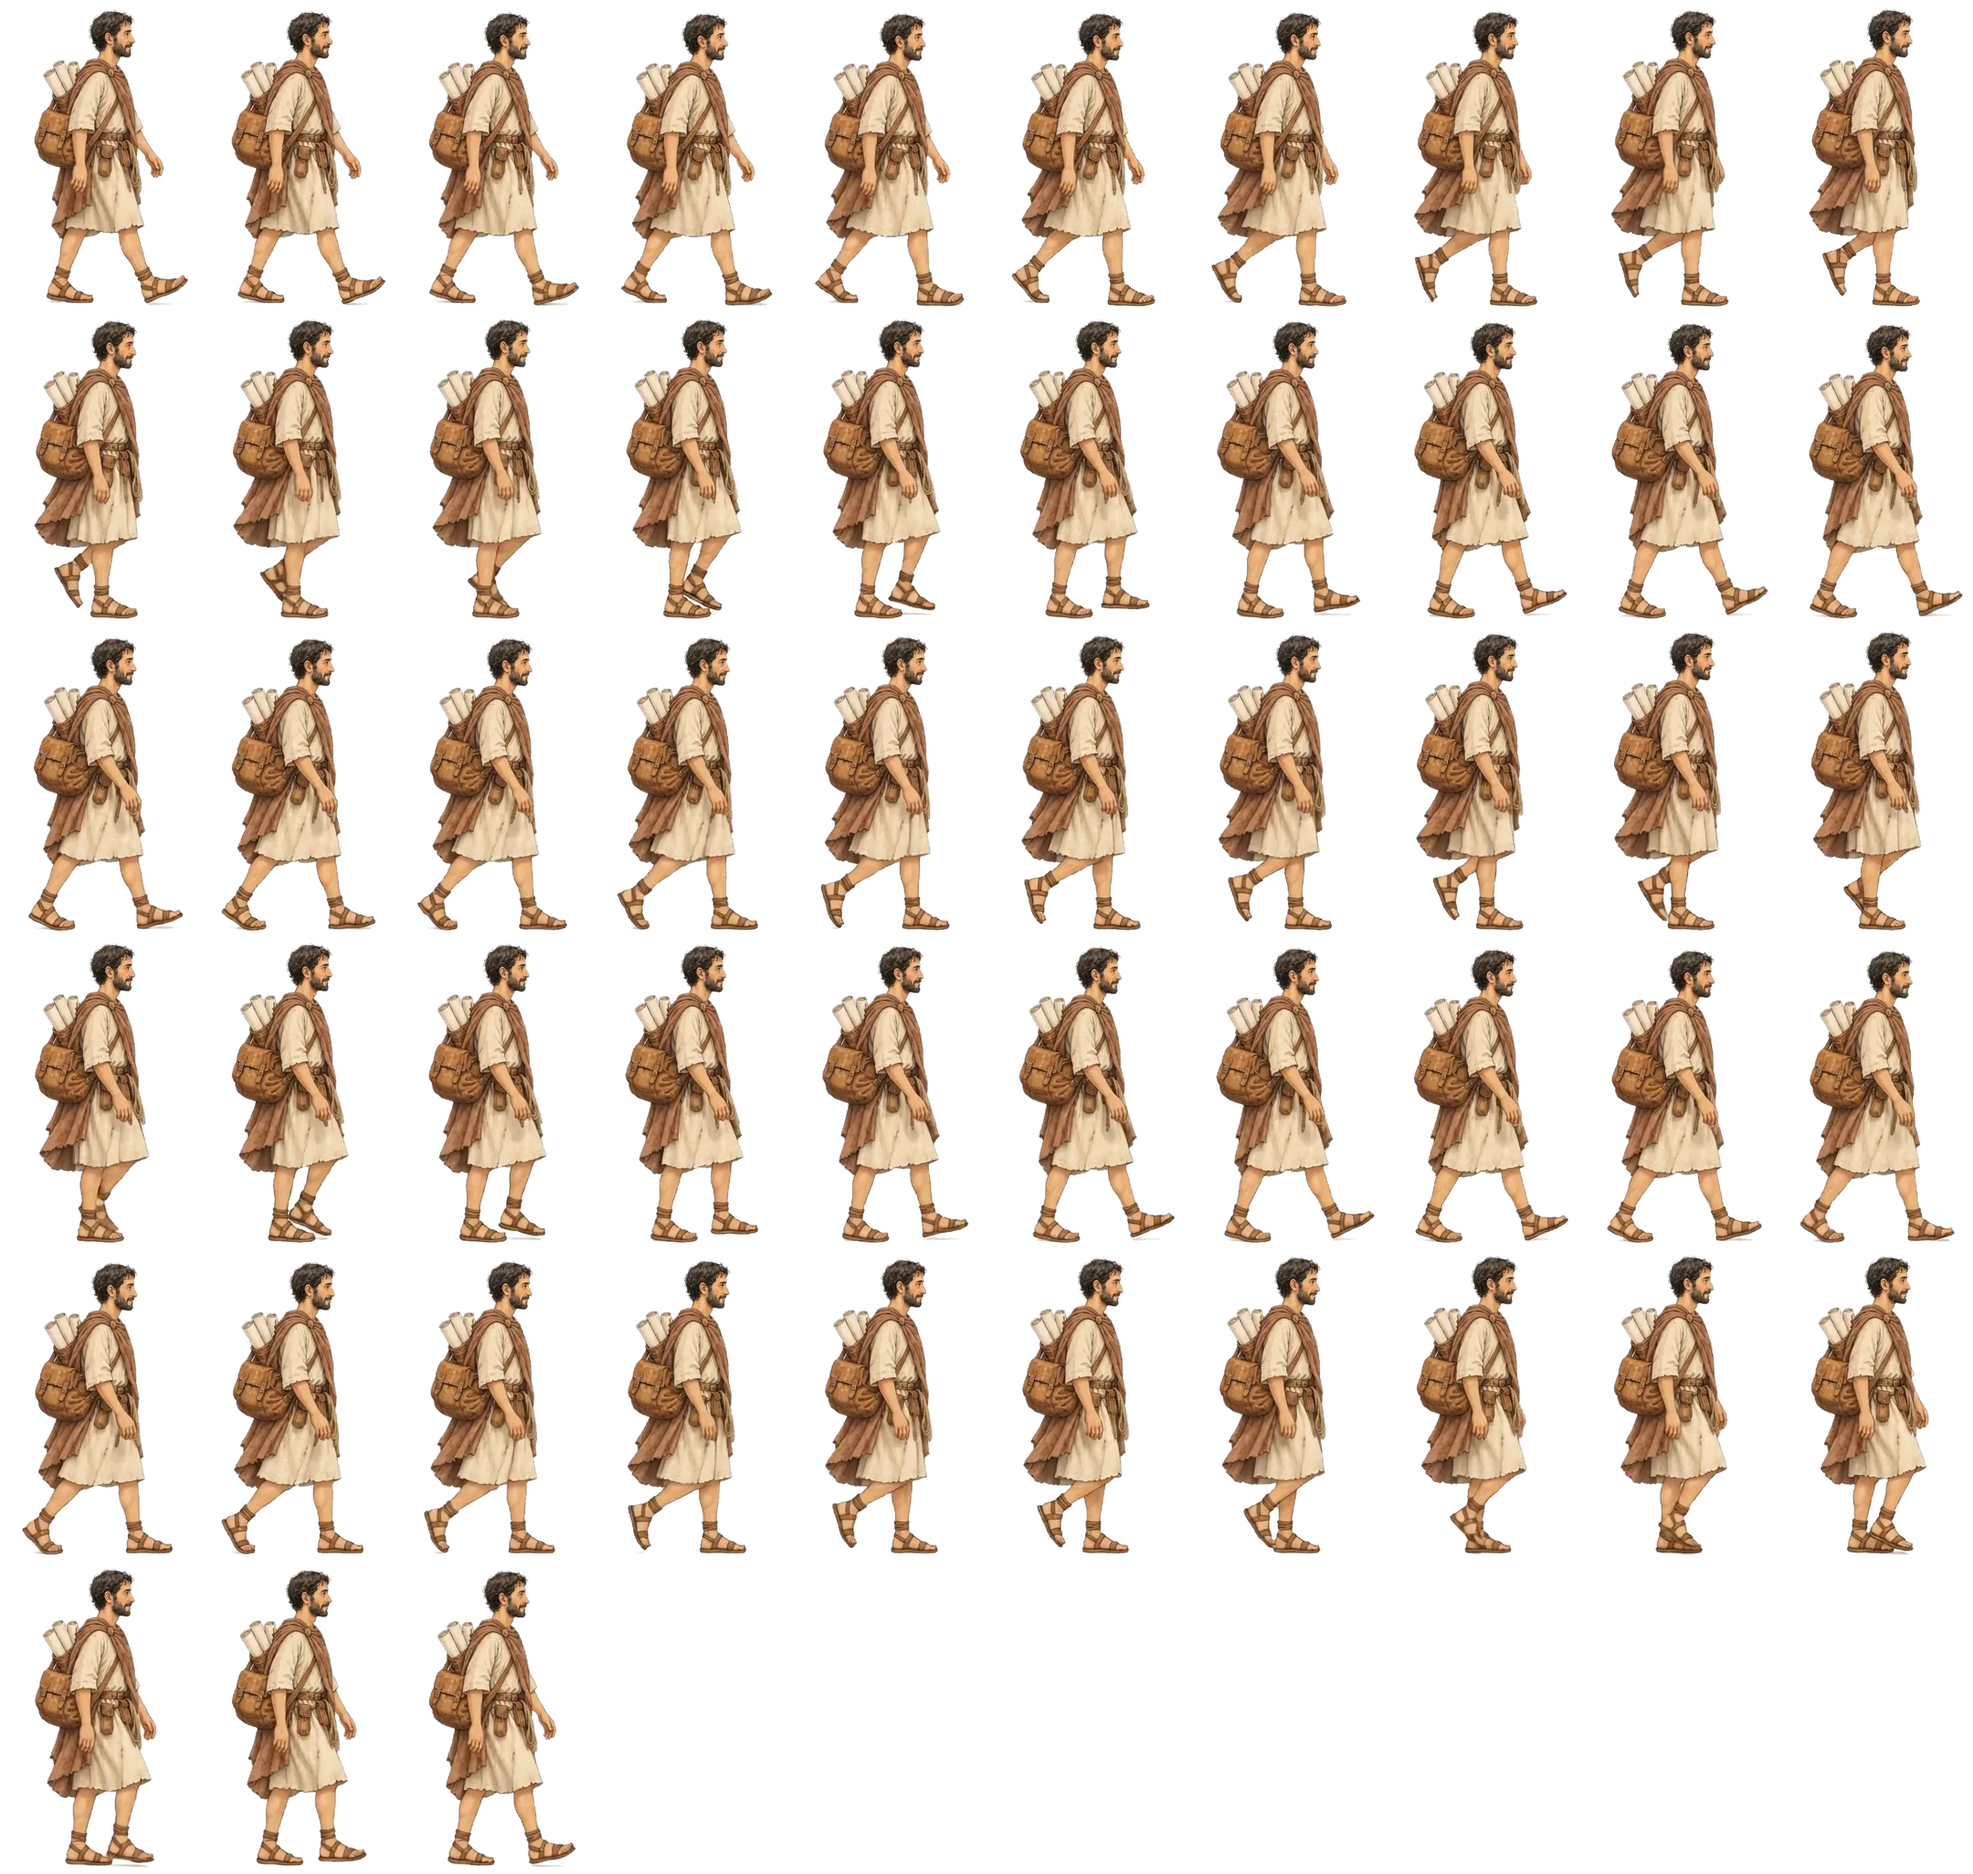
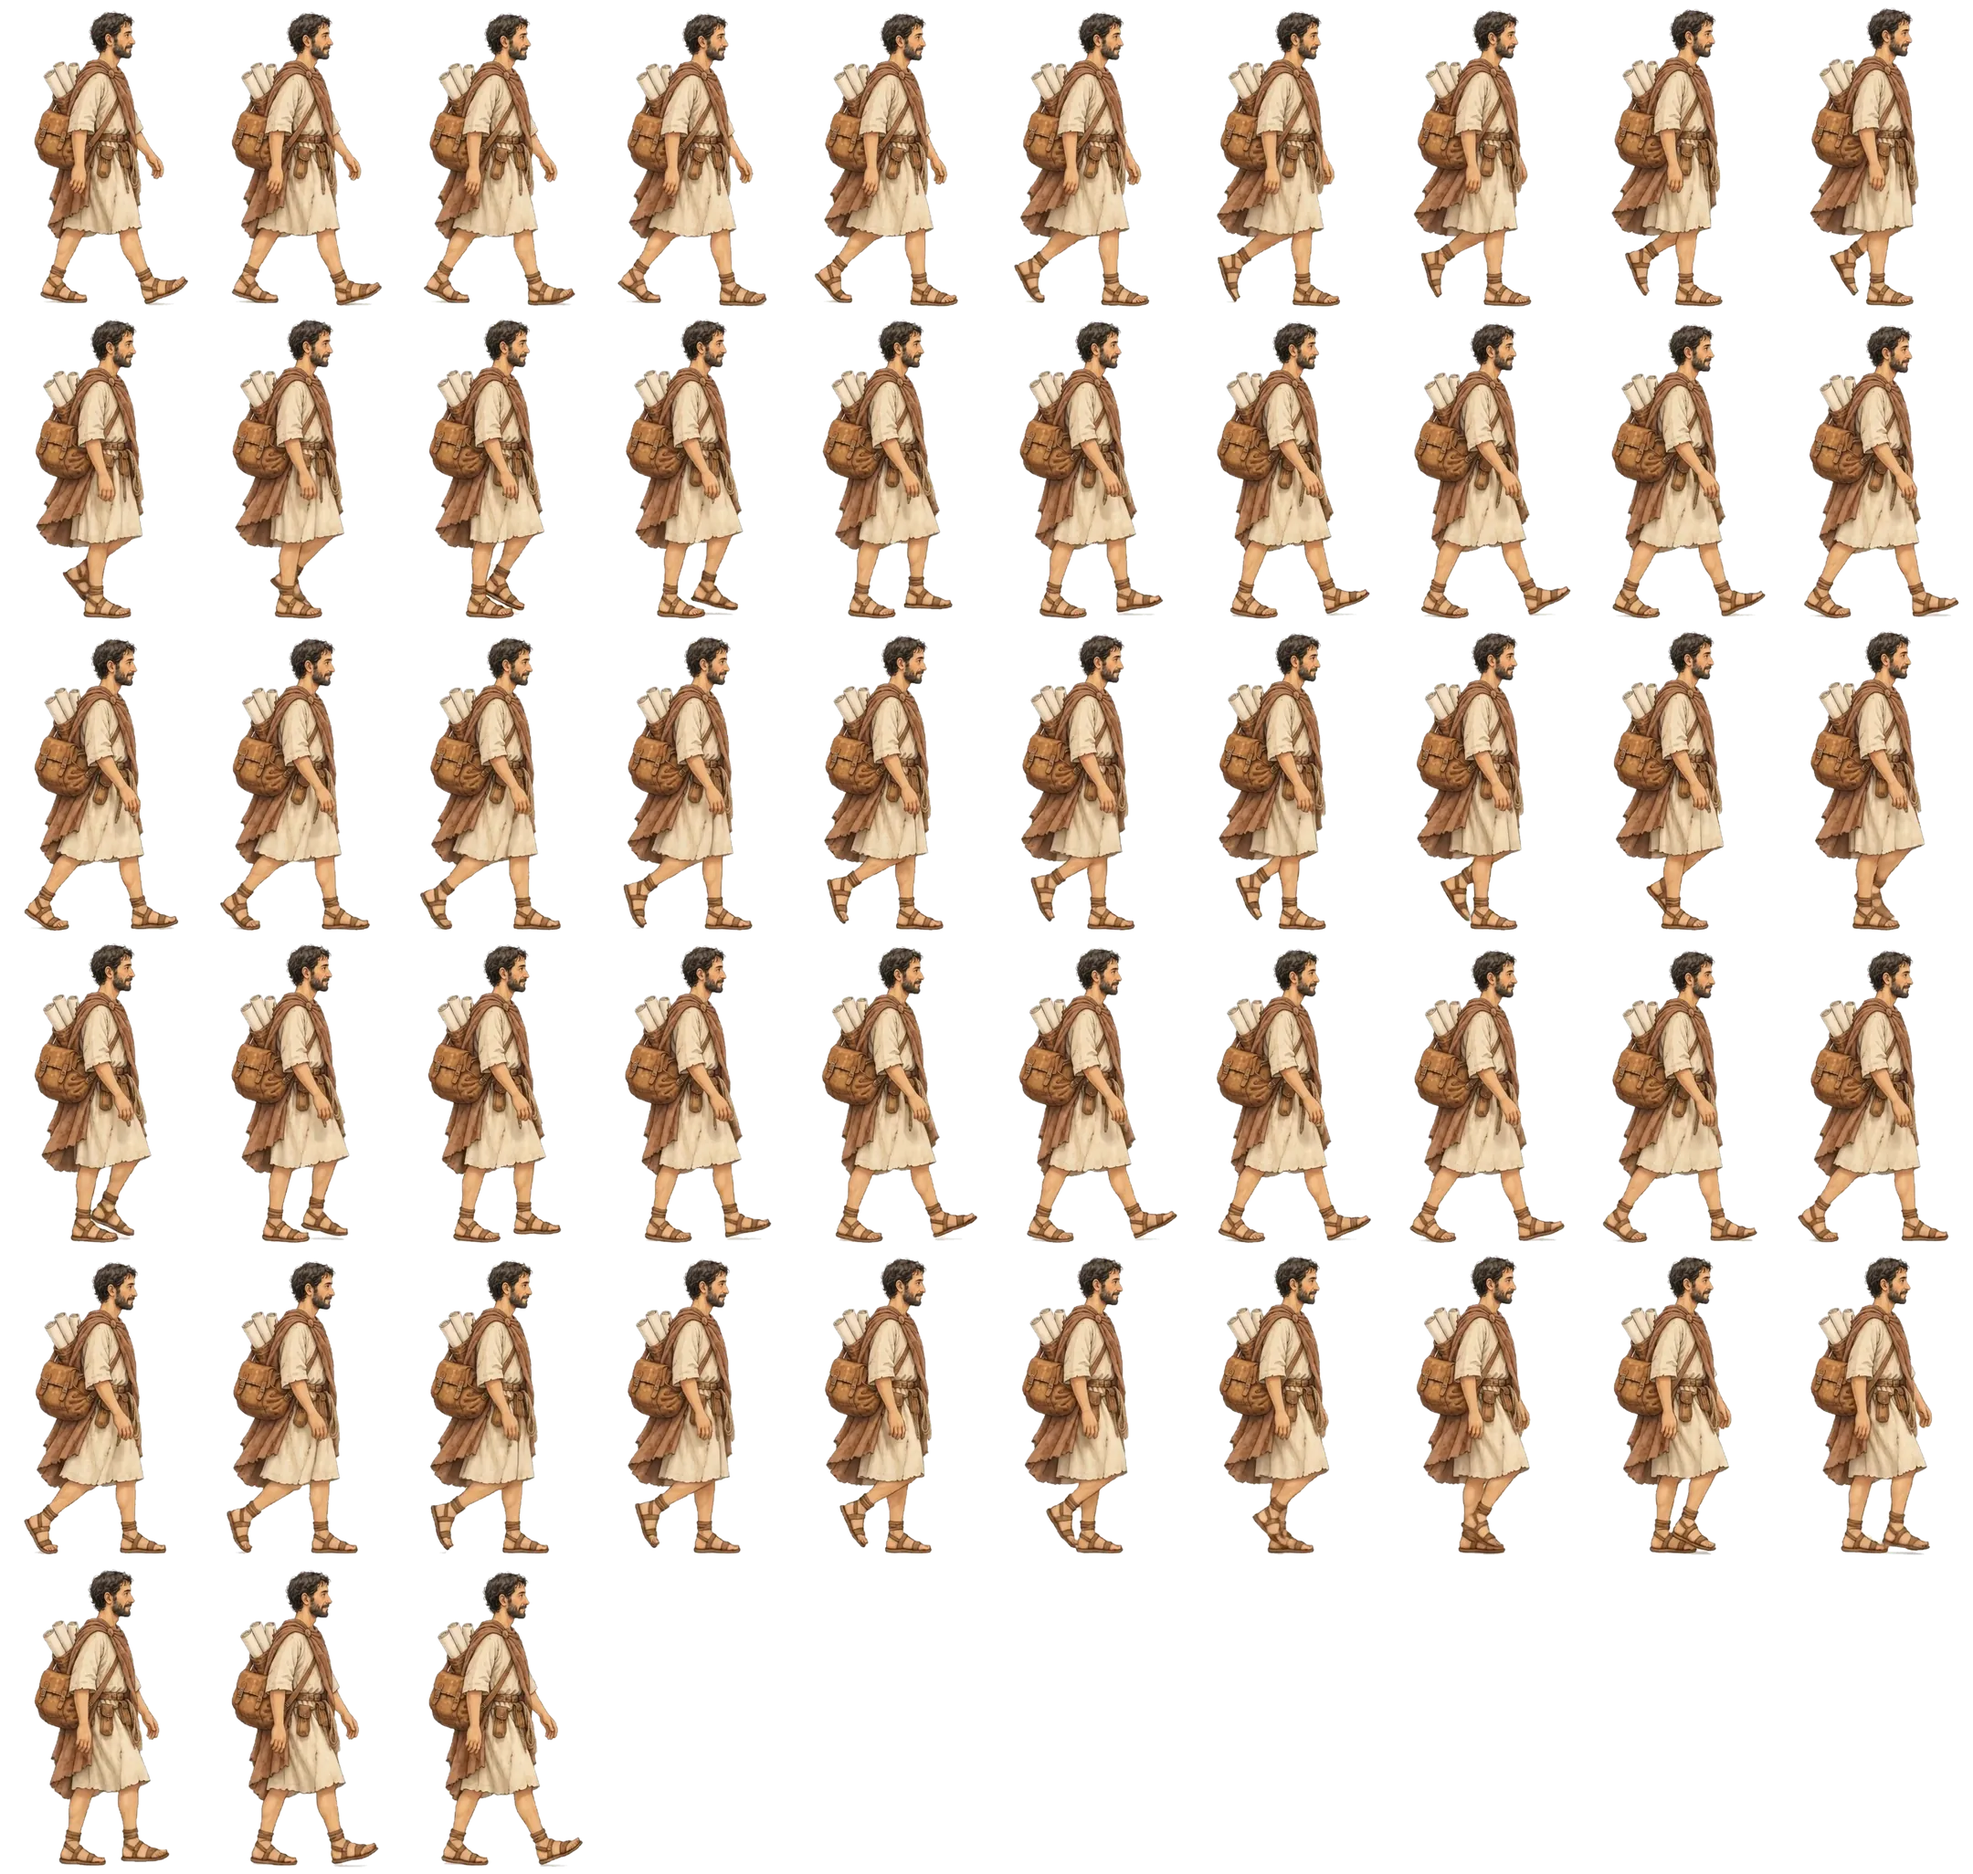
에벤 반복을 팔이 맨 앞에 있을 때 시작하고, 같은 장면 하나를 빼서 이음매 없이
Claude-Session: https://claude.ai/code/session_01RVpcinRn1nSZmVDUMtNQKN

diff --git a/index.html b/index.html
@@ -469,7 +469,8 @@ ul.vows li::before{content:"";position:absolute;left:0;top:.62em;width:8px;heigh
 (function(){
 const FW=610,FH=342;
 // Each walker has its own seamless loop cut from the video at every frame (24 fps):
-// Talitha and Philo (tied by the rope) 58 frames, Eben 53 frames — so Eben's arm swing never jumps at a loop seam.
+// Talitha and Philo (tied by the rope) 58 frames; Eben 53 frames, starting with his arm fully forward and stopping one frame
+// before that pose comes round again (the repeat frame is left out), so the loop is one unbroken arm swing.
 const parts=[{src:"assets/walk-talitha.webp",x:0,w:395,cols:8,n:58},{src:"assets/walk-eben.webp",x:395,w:216,cols:10,n:53}];
 parts.forEach(p=>{ p.img=new Image(); p.img.src=p.src; p.img.onload=()=>render(true); });
 const $=s=>document.querySelector(s), $$=s=>Array.from(document.querySelectorAll(s));
